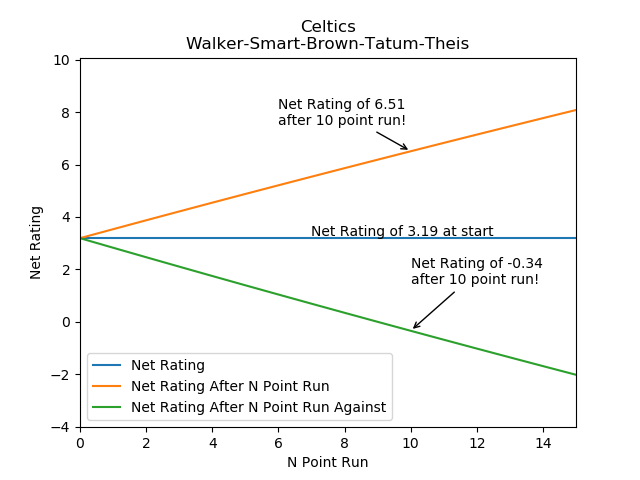
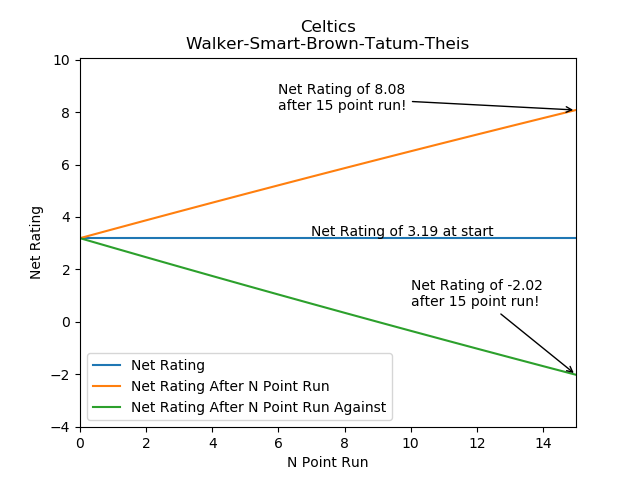
working on README

diff --git a/five_man_net_rating/net_rtg_run.py b/five_man_net_rating/net_rtg_run.py
@@ -104,8 +104,8 @@ for season in ['2019-20']: #'2018-19',
         plt.plot(frame['RUN'], frame['NET - RUN SCORED'], label='Net Rating After N Point Run')
         plt.plot(frame['RUN'], frame['NET - RUN ALLOWED'], label='Net Rating After N Point Run Against')
 
-        y_up=frame['NET - RUN SCORED'].round(2)[10]
-        y_down=frame['NET - RUN ALLOWED'].round(2)[10]
+        y_up=frame['NET - RUN SCORED'].round(2)[15]
+        y_down=frame['NET - RUN ALLOWED'].round(2)[15]
 
         y_max = frame['NET - RUN SCORED'].round(2)[15] + 2
         y_min = frame['NET - RUN ALLOWED'].round(2)[15]  - 2
@@ -116,9 +116,9 @@ for season in ['2019-20']: #'2018-19',
         y_txt_down = (y_down + net_rtg)/2
 
 
-        plt.annotate(xy=(10, y_up), xytext=(6, y_up + 1), arrowprops=dict(arrowstyle="->",connectionstyle="arc3"), s='Net Rating of {}\nafter 10 point run!'.format(y_up))
+        plt.annotate(xy=(15, y_up), xytext=(6, y_up), arrowprops=dict(arrowstyle="->",connectionstyle="arc3"), s='Net Rating of {}\nafter 15 point run!'.format(y_up))
         plt.annotate(xy=(7, net_rtg), xytext=(7, net_rtg+0.1), s='Net Rating of {} at start'.format(net_rtg))
-        plt.annotate(xy=(10, y_down), xytext=(10, y_txt_down ), arrowprops=dict(arrowstyle="->",connectionstyle="arc3"), s='Net Rating of {}\nafter 10 point run!'.format(y_down))
+        plt.annotate(xy=(15, y_down), xytext=(10, y_txt_down ), arrowprops=dict(arrowstyle="->",connectionstyle="arc3"), s='Net Rating of {}\nafter 15 point run!'.format(y_down))
 
 
         plt.title('{}\n{}'.format(team_lineup['TEAM'], team_lineup['LINEUP']))
